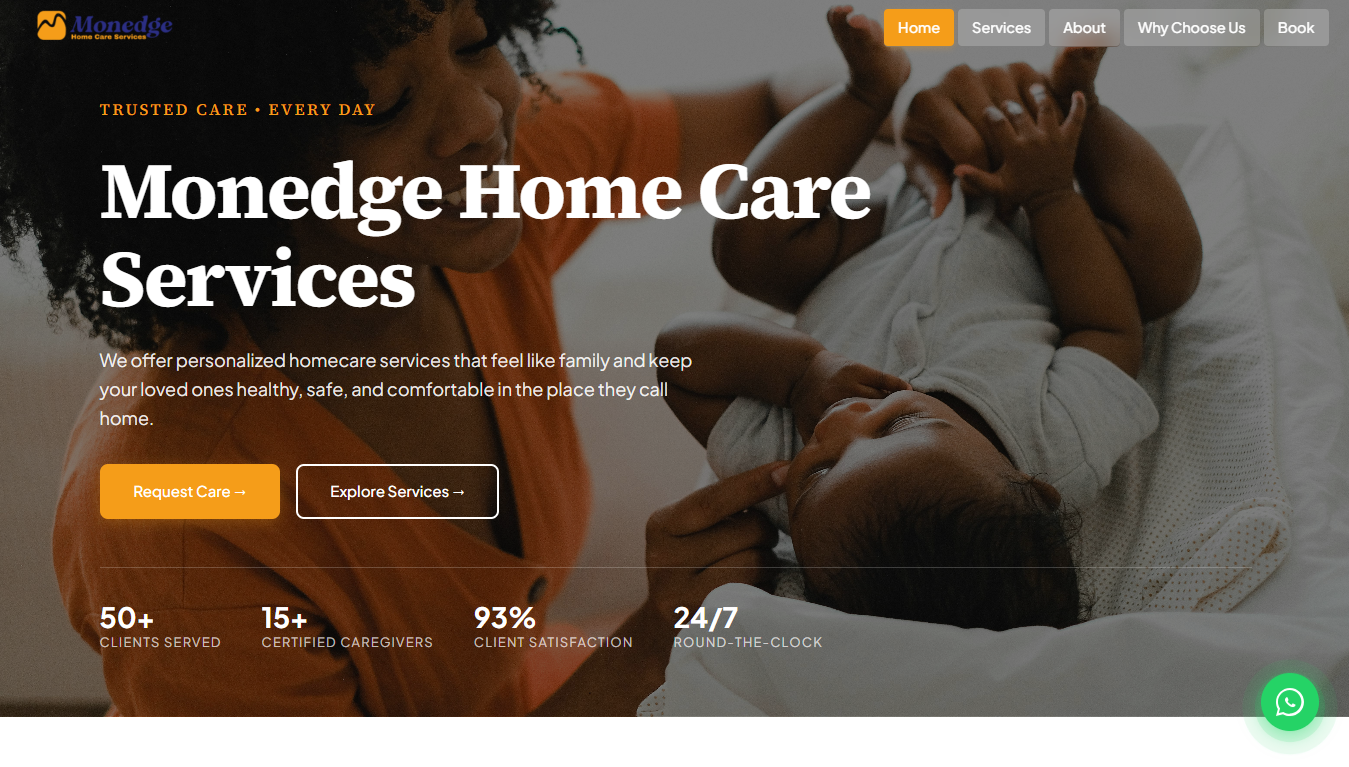
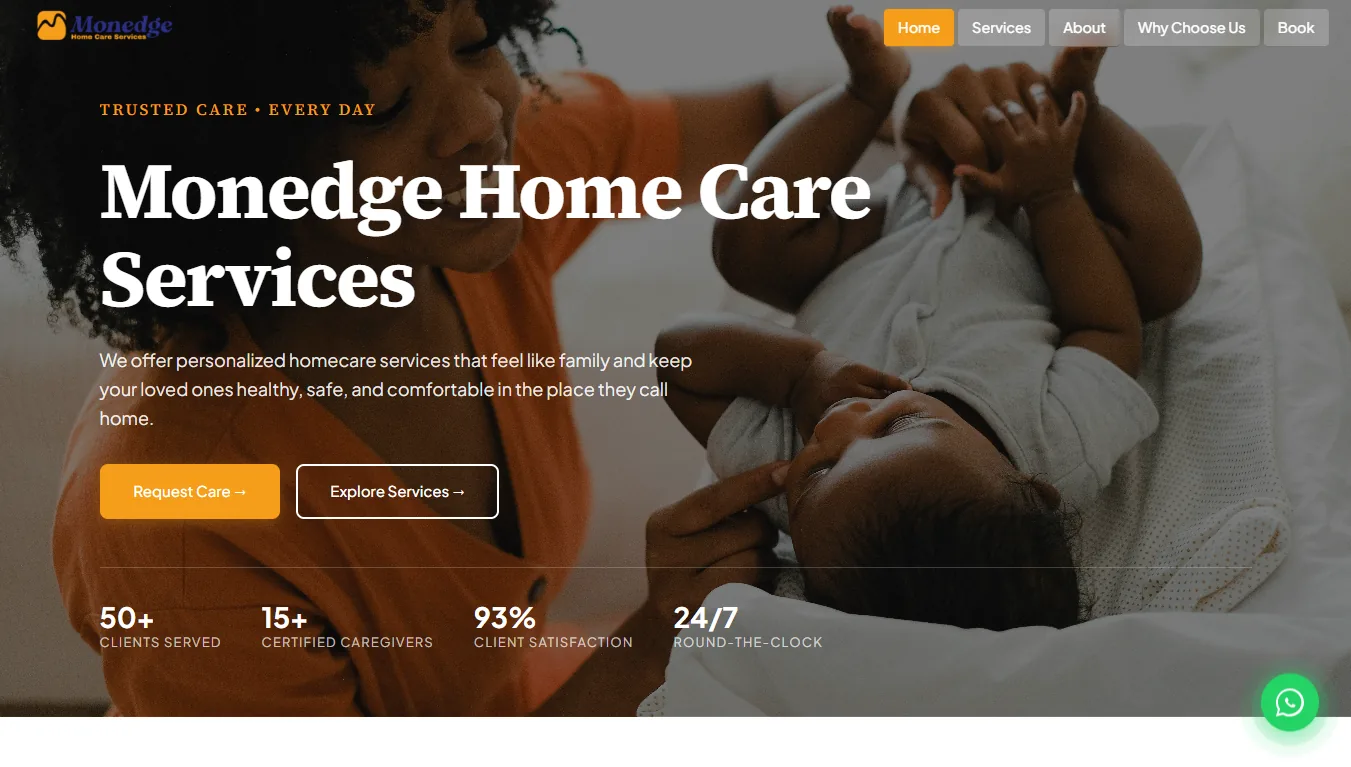
Add Jebal to web-design portfolio, compress project images, fix universal header breakpoint

diff --git a/templates/web-design.html b/templates/web-design.html
@@ -24,7 +24,7 @@
     <meta name="twitter:card" content="summary_large_image">
     <meta name="twitter:title" content="Web Design & Development | John Ngor Deng Garang">
     <meta name="twitter:image" content="https://johngarang.com/static/Pictures/john-ngor-deng-garang-web-development.png">
-    <link rel="stylesheet" href="static/styles.css">
+    <link rel="stylesheet" href="static/styles.css?v=1.1.0">
     <link rel="stylesheet" href="static/mobile-fixes.css">
     <link rel="stylesheet" href="/static/loading.css">
     <link href="https://cdnjs.cloudflare.com/ajax/libs/font-awesome/6.0.0/css/all.min.css" rel="stylesheet">
@@ -140,7 +140,7 @@
     </div>
 
     <div id="header-placeholder"></div>
-    <script src="/static/load-header.js"></script>
+    <script src="/static/load-header.js?v=1.0.5"></script>
 
     <section class="category-hero">
         <div class="container">
@@ -179,6 +179,21 @@
                         <h3>MonEdge Home Care Services</h3>
                         <p>Website for MonEdge Home Care Services — built to present the company's healthcare offerings, team, and service areas to clients and stakeholders.</p>
                         <a href="https://monedgehcs.com/" target="_blank" rel="noopener noreferrer" class="project-link">
+                            <i class="fas fa-external-link-alt"></i> Visit Site
+                        </a>
+                    </div>
+                </div>
+
+                <div class="web-project-card">
+                    <div class="project-preview">
+                        <img src="static/Pictures/jebal99.com.webp.png" alt="Jabal Investment and Integrated Services Limited website screenshot" loading="lazy">
+                        <div class="project-preview-overlay"></div>
+                    </div>
+                    <div class="project-info">
+                        <span class="project-tag">Investment · Trading · Services</span>
+                        <h3>Jabal Investment and Integrated Services Limited</h3>
+                        <p>Corporate website for Jabal Investment — designed and developed to showcase the company's investment, trading, sourcing, and integrated services across energy, construction, and international trade.</p>
+                        <a href="https://jebal99.com/" target="_blank" rel="noopener noreferrer" class="project-link">
                             <i class="fas fa-external-link-alt"></i> Visit Site
                         </a>
                     </div>

diff --git a/templates/development-trajectory-south-sudan.html b/templates/development-trajectory-south-sudan.html
@@ -29,7 +29,7 @@
     <link rel="preload" href="https://fonts.googleapis.com/css2?family=Inter:wght@300;400;500;600;700;800&display=swap" as="style" onload="this.onload=null;this.rel='stylesheet'">
     <noscript><link rel="stylesheet" href="https://fonts.googleapis.com/css2?family=Inter:wght@300;400;500;600;700;800&display=swap"></noscript>
     <link rel="stylesheet" href="/static/loading.css">
-    <link rel="stylesheet" href="/static/styles.css?v=1.0.9">
+    <link rel="stylesheet" href="/static/styles.css?v=1.1.0">
     <link rel="stylesheet" href="/static/mobile-fixes.css">
     <link rel="stylesheet" href="https://cdnjs.cloudflare.com/ajax/libs/font-awesome/6.0.0/css/all.min.css" media="print" onload="this.media='all'">
 
@@ -342,7 +342,7 @@
     <div id="footer-placeholder"></div>
 
     <script src="/static/loading.js" defer></script>
-    <script src="/static/load-header.js?v=1.0.4" defer></script>
+    <script src="/static/load-header.js?v=1.0.5" defer></script>
     <script src="/static/load-footer.js" defer></script>
     <script src="/static/brand-notifications.js" defer></script>
     <script src="/static/email.min.js" defer onload="emailjs.init('jMid5j4K3IEfIlIr0')"></script>

diff --git a/templates/entrepreneurial-gaps-south-sudan.html b/templates/entrepreneurial-gaps-south-sudan.html
@@ -29,7 +29,7 @@
     <link rel="preload" href="https://fonts.googleapis.com/css2?family=Inter:wght@300;400;500;600;700;800&display=swap" as="style" onload="this.onload=null;this.rel='stylesheet'">
     <noscript><link rel="stylesheet" href="https://fonts.googleapis.com/css2?family=Inter:wght@300;400;500;600;700;800&display=swap"></noscript>
     <link rel="stylesheet" href="/static/loading.css">
-    <link rel="stylesheet" href="/static/styles.css?v=1.0.9">
+    <link rel="stylesheet" href="/static/styles.css?v=1.1.0">
     <link rel="stylesheet" href="/static/mobile-fixes.css">
     <link rel="stylesheet" href="https://cdnjs.cloudflare.com/ajax/libs/font-awesome/6.0.0/css/all.min.css" media="print" onload="this.media='all'">
 
@@ -402,7 +402,7 @@
     <div id="footer-placeholder"></div>
 
     <script src="/static/loading.js" defer></script>
-    <script src="/static/load-header.js?v=1.0.4" defer></script>
+    <script src="/static/load-header.js?v=1.0.5" defer></script>
     <script src="/static/load-footer.js" defer></script>
     <script src="/static/brand-notifications.js" defer></script>
     <script src="/static/email.min.js" defer onload="emailjs.init('jMid5j4K3IEfIlIr0')"></script>

diff --git a/templates/index.html b/templates/index.html
@@ -151,7 +151,7 @@
     <link rel="preload" href="https://fonts.googleapis.com/css2?family=Inter:wght@300;400;500;600;700;800&display=swap" as="style" onload="this.onload=null;this.rel='stylesheet'">
     <noscript><link rel="stylesheet" href="https://fonts.googleapis.com/css2?family=Inter:wght@300;400;500;600;700;800&display=swap"></noscript>
     <link rel="stylesheet" href="static/loading.css">
-    <link rel="stylesheet" href="static/styles.css?v=1.0.9">
+    <link rel="stylesheet" href="static/styles.css?v=1.1.0">
     <link rel="stylesheet" href="static/mobile-fixes.css?v=1.0.1">
     <link rel="stylesheet" href="https://cdnjs.cloudflare.com/ajax/libs/font-awesome/6.0.0/css/all.min.css" media="print" onload="this.media='all'">
 
@@ -522,7 +522,7 @@
     
     <!-- CRITICAL SCRIPTS ONLY - Optimized Loading -->
     <script src="static/loading.js" defer></script>
-    <script src="/static/load-header.js" defer></script>
+    <script src="/static/load-header.js?v=1.0.5" defer></script>
     <script src="static/load-footer.js" defer></script>
     <script src="static/popup-system.js" defer></script>
     <script src="/static/brand-notifications.js" defer></script>

diff --git a/templates/poems/index.html b/templates/poems/index.html
@@ -30,7 +30,7 @@
     <meta name="twitter:image" content="https://johngarang.com/static/Pictures/john-ngor-deng-garang-poem-if-equality-means-this.webp">
     <link rel="icon" type="image/png" href="/static/Pictures/john-ngor-deng-garang-logo-sm.webp">
     <link rel="apple-touch-icon" href="/static/Pictures/john-ngor-deng-garang-logo-sm.webp">
-    <link rel="stylesheet" href="/static/styles.css">
+    <link rel="stylesheet" href="/static/styles.css?v=1.1.0">
     <link rel="stylesheet" href="/static/loading.css">
     <link rel="stylesheet" href="/static/mobile-fixes.css">
     <link rel="preload" href="https://fonts.googleapis.com/css2?family=Inter:wght@300;400;500;600;700;800&display=swap" as="style" onload="this.onload=null;this.rel='stylesheet'">
@@ -418,7 +418,7 @@
     </div>
 
     <div id="footer-placeholder"></div>
-    <script src="/static/load-header.js" defer></script>
+    <script src="/static/load-header.js?v=1.0.5" defer></script>
     <script src="/static/load-footer.js" defer></script>
     <script src="/static/brand-notifications.js" defer></script>
     <script src="/static/email.min.js" defer onload="emailjs.init('jMid5j4K3IEfIlIr0')"></script>

diff --git a/templates/programs-overview/index.html b/templates/programs-overview/index.html
@@ -29,7 +29,7 @@
     <link rel="preload" href="https://fonts.googleapis.com/css2?family=Inter:wght@300;400;500;600;700;800&display=swap" as="style" onload="this.onload=null;this.rel='stylesheet'">
     <noscript><link rel="stylesheet" href="https://fonts.googleapis.com/css2?family=Inter:wght@300;400;500;600;700;800&display=swap"></noscript>
     <link rel="stylesheet" href="/static/loading.css">
-    <link rel="stylesheet" href="/static/styles.css?v=1.0.9">
+    <link rel="stylesheet" href="/static/styles.css?v=1.1.0">
     <link rel="stylesheet" href="/static/mobile-fixes.css">
     <link rel="stylesheet" href="https://cdnjs.cloudflare.com/ajax/libs/font-awesome/6.0.0/css/all.min.css" media="print" onload="this.media='all'">
 
@@ -1010,7 +1010,7 @@
     </div>
 
     <script src="/static/loading.js" defer></script>
-    <script src="/static/load-header.js?v=1.0.4" defer></script>
+    <script src="/static/load-header.js?v=1.0.5" defer></script>
     <script src="/static/load-footer.js" defer></script>
     <script src="/static/brand-notifications.js" defer></script>
     <script src="/static/email.min.js" defer onload="emailjs.init('jMid5j4K3IEfIlIr0')"></script>

diff --git a/templates/experience-overview/index.html b/templates/experience-overview/index.html
@@ -144,7 +144,7 @@
     <link rel="preload" href="https://fonts.googleapis.com/css2?family=Inter:wght@300;400;500;600;700;800&display=swap" as="style" onload="this.onload=null;this.rel='stylesheet'">
     <noscript><link rel="stylesheet" href="https://fonts.googleapis.com/css2?family=Inter:wght@300;400;500;600;700;800&display=swap"></noscript>
     <link rel="stylesheet" href="/static/loading.css">
-    <link rel="stylesheet" href="/static/styles.css?v=1.0.9">
+    <link rel="stylesheet" href="/static/styles.css?v=1.1.0">
     <link rel="stylesheet" href="/static/mobile-fixes.css">
     <style>
         .exp-stack-section {
@@ -834,7 +834,7 @@
     <div id="footer-placeholder"></div>
 
     <script src="/static/loading.js" defer></script>
-    <script src="/static/load-header.js?v=1.0.4" defer></script>
+    <script src="/static/load-header.js?v=1.0.5" defer></script>
     <script src="/static/load-footer.js" defer></script>
     <script src="/static/brand-notifications.js" defer></script>
     <script src="/static/email.min.js" defer onload="emailjs.init('jMid5j4K3IEfIlIr0')"></script>

diff --git a/templates/work-portfolio/index.html b/templates/work-portfolio/index.html
@@ -33,7 +33,7 @@
     <meta name="twitter:title" content="Work Portfolio | John Ngor Deng Garang">
     <meta name="twitter:description" content="Graphic design, writings, academic papers, and professional CV — a showcase of communications and creative work across Africa.">
     <meta name="twitter:image" content="https://johngarang.com/static/Pictures/john-ngor-deng-garang-work-experience.webp">
-    <link rel="stylesheet" href="/static/styles.css">
+    <link rel="stylesheet" href="/static/styles.css?v=1.1.0">
     <link rel="stylesheet" href="/static/loading.css">
     <link rel="stylesheet" href="/static/mobile-fixes.css">
     <link href="https://cdnjs.cloudflare.com/ajax/libs/font-awesome/6.0.0/css/all.min.css" rel="stylesheet">
@@ -48,7 +48,7 @@
 
     <!-- Header Placeholder -->
     <div id="header-placeholder"></div>
-    <script src="/static/load-header.js"></script>
+    <script src="/static/load-header.js?v=1.0.5"></script>
 
     <!-- Hero Section -->
     <section class="category-hero">

diff --git a/templates/my-shelf.html b/templates/my-shelf.html
@@ -13,7 +13,7 @@
     <meta charset="UTF-8">
     <meta name="viewport" content="width=device-width, initial-scale=1.0">
     <title>My Shelf | John Garang</title>
-    <link rel="stylesheet" href="/static/styles.css">
+    <link rel="stylesheet" href="/static/styles.css?v=1.1.0">
     <link rel="stylesheet" href="/static/mobile-fixes.css">
     <link rel="stylesheet" href="/static/loading.css">
     <link href="https://cdnjs.cloudflare.com/ajax/libs/font-awesome/6.0.0/css/all.min.css" rel="stylesheet">
@@ -29,7 +29,7 @@
     <!-- Navigation -->
     <!-- Header Placeholder -->
     <div id="header-placeholder"></div>
-    <script src="/static/load-header.js"></script>
+    <script src="/static/load-header.js?v=1.0.5"></script>
 
     <!-- Shelf Hero -->
     <section class="shelf-hero" style="background: linear-gradient(135deg, #16b2dc 0%, #1a1a1a 100%); min-height: 70vh; display: flex; align-items: center; justify-content: center; color: white; text-align: center; padding: 6rem 20px 4rem;">

diff --git a/templates/graphic-design.html b/templates/graphic-design.html
@@ -24,7 +24,7 @@
     <meta name="twitter:card" content="summary_large_image">
     <meta name="twitter:title" content="Graphic Design Portfolio | John Ngor Deng Garang">
     <meta name="twitter:image" content="https://johngarang.com/static/Pictures/john-ngor-deng-garang-graphic-design.png">
-    <link rel="stylesheet" href="static/styles.css">
+    <link rel="stylesheet" href="static/styles.css?v=1.1.0">
     <link rel="stylesheet" href="static/mobile-fixes.css">
     <link rel="stylesheet" href="/static/loading.css">
     <link href="https://cdnjs.cloudflare.com/ajax/libs/font-awesome/6.0.0/css/all.min.css" rel="stylesheet">
@@ -283,7 +283,7 @@
     <!-- Navigation -->
     <!-- Header Placeholder -->
     <div id="header-placeholder"></div>
-    <script src="/static/load-header.js"></script>
+    <script src="/static/load-header.js?v=1.0.5"></script>
 
     <!-- Hero Section -->
     <section class="category-hero">

diff --git a/templates/cv.html b/templates/cv.html
@@ -25,7 +25,7 @@
     <meta name="twitter:card" content="summary_large_image">
     <meta name="twitter:title" content="CV | John Ngor Deng Garang">
     <meta name="twitter:image" content="https://johngarang.com/static/Pictures/John_Ngor_Deng_Garang_picture.JPG">
-    <link rel="stylesheet" href="static/styles.css">
+    <link rel="stylesheet" href="static/styles.css?v=1.1.0">
     <link rel="stylesheet" href="static/mobile-fixes.css">
     <link rel="stylesheet" href="/static/loading.css">
     <link href="https://cdnjs.cloudflare.com/ajax/libs/font-awesome/6.0.0/css/all.min.css" rel="stylesheet">
@@ -105,7 +105,7 @@
     <!-- Navigation -->
     <!-- Header Placeholder -->
     <div id="header-placeholder"></div>
-    <script src="/static/load-header.js"></script>
+    <script src="/static/load-header.js?v=1.0.5"></script>
 
     <!-- Hero Section -->
     <section class="category-hero">

diff --git a/templates/academia.html b/templates/academia.html
@@ -24,7 +24,7 @@
     <meta name="twitter:card" content="summary_large_image">
     <meta name="twitter:title" content="Academia | John Ngor Deng Garang">
     <meta name="twitter:image" content="https://johngarang.com/static/Pictures/john-ngor-deng-garang-academia.png">
-    <link rel="stylesheet" href="static/styles.css">
+    <link rel="stylesheet" href="static/styles.css?v=1.1.0">
     <link rel="stylesheet" href="static/mobile-fixes.css">
     <link rel="stylesheet" href="/static/loading.css">
     <link href="https://cdnjs.cloudflare.com/ajax/libs/font-awesome/6.0.0/css/all.min.css" rel="stylesheet">
@@ -121,7 +121,7 @@
     </div>
 
     <div id="header-placeholder"></div>
-    <script src="/static/load-header.js"></script>
+    <script src="/static/load-header.js?v=1.0.5"></script>
 
     <section class="academia-hero">
         <div class="academia-hero-content">
